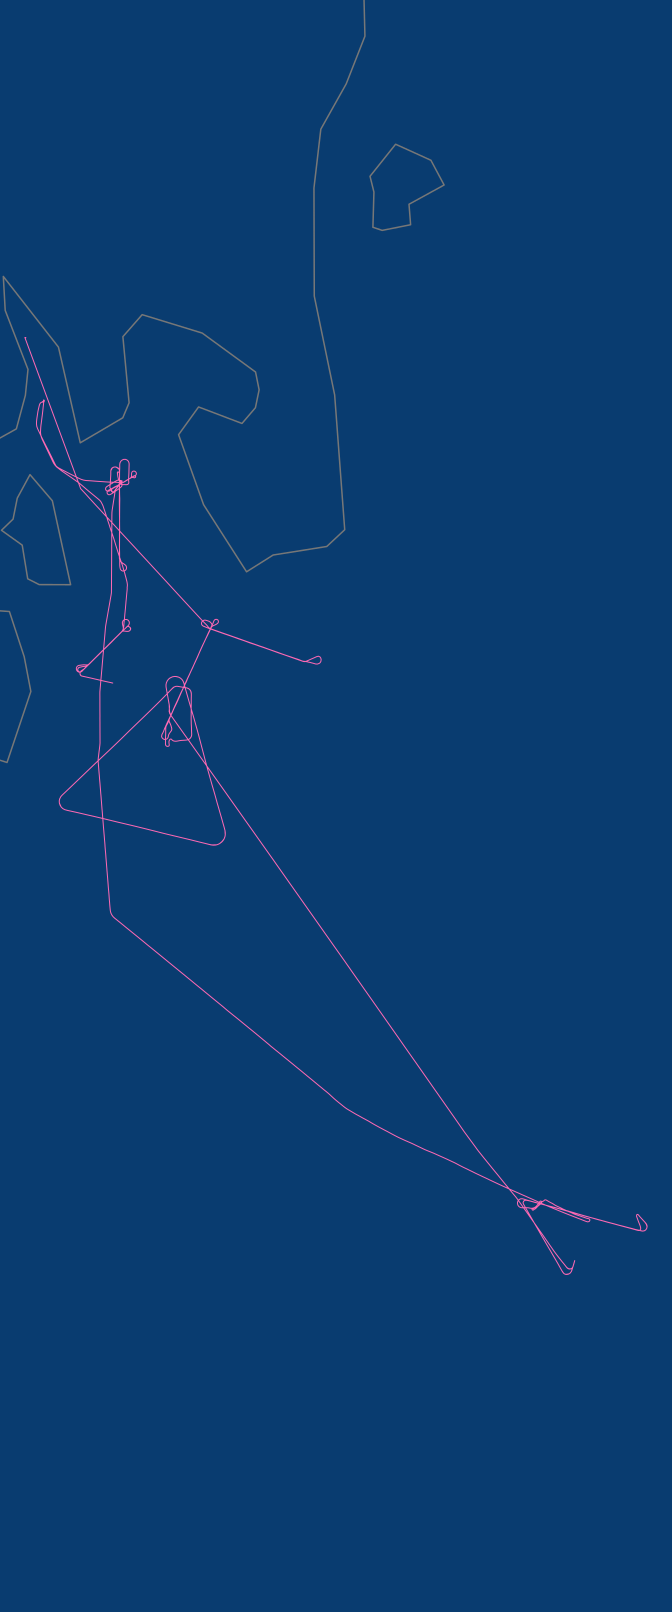
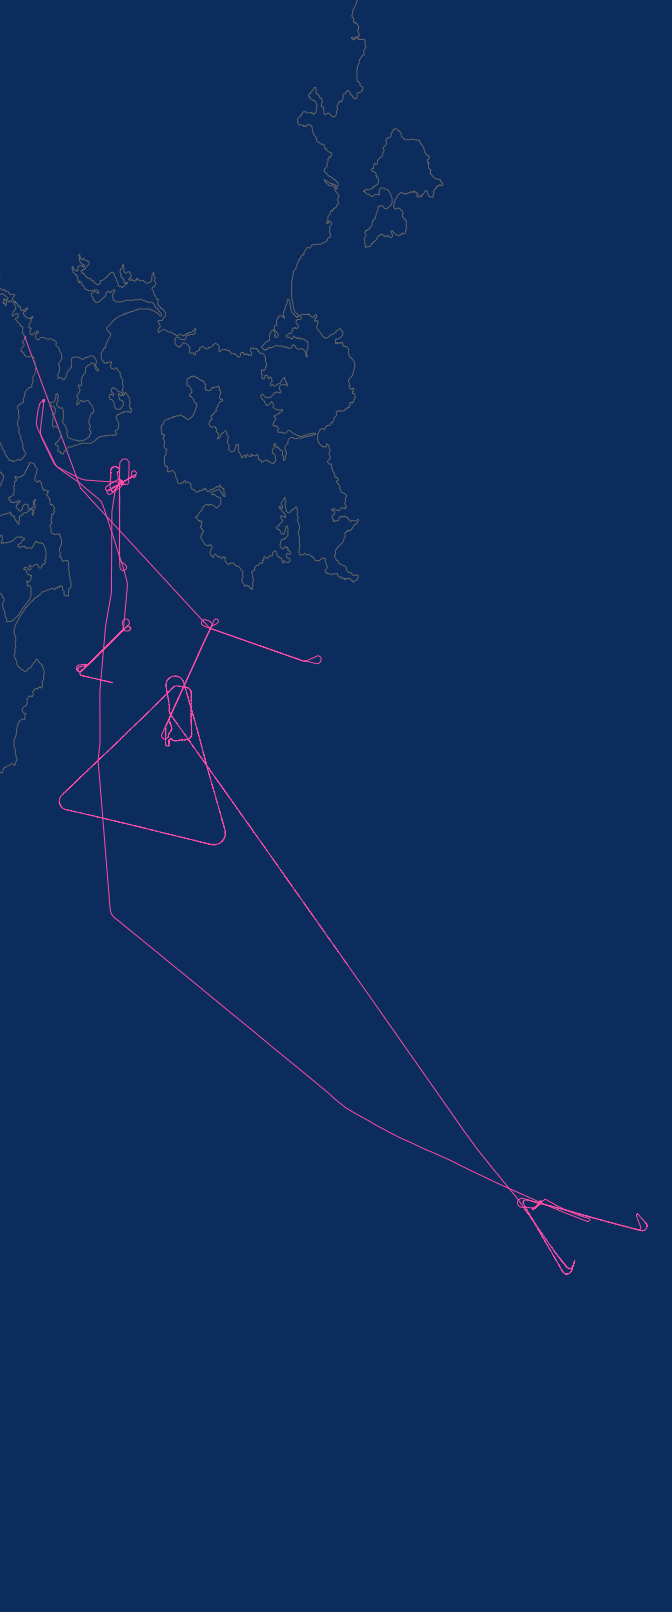
refreshing data

diff --git a/README.md b/README.md
@@ -18,7 +18,7 @@ The goal of seaice.map is to
 
 ``` r
 library(terra)
-#> terra 1.7.49
+#> terra 1.7.46
 r <- rast("data-raw/seaice.png")
 plotRGB(r, axes = F, maxcell = prod(dim(r)[2:1]))
 
@@ -34,11 +34,15 @@ title(readLines("data-raw/latestdate.txt"), line = -2, col.main = "white")
 #dat <- vapour::vapour_read_fields(aadcgeoserver, sql = sql)
 
 
-info <- vapour::vapour_layer_info("data-raw/nuyina_underway.parquet", "nuyina_underway")
+#info <- vapour::vapour_layer_info("data-raw/nuyina_underway.parquet")
 n <- 12 * 24 * 60
-sql <- sprintf("SELECT * FROM \"%s\" LIMIT %i OFFSET %i", "nuyina_underway", n, info$count - n)
+#sql <- sprintf("SELECT * FROM \"%s\" LIMIT %i OFFSET %i", info$layer_names[1], n, info$count - n)
 
-dat <- vapour::vapour_read_fields("data-raw/nuyina_underway.parquet", sql = sql)
+#dat <- vapour::vapour_read_fields("data-raw/nuyina_underway.parquet", sql = sql)
+
+dat <- arrow::read_parquet("data-raw/nuyina_underway.parquet")
+dat <- tibble::as_tibble(dat)
+dat <- tail(dat, n)
 dat$date_time_utc <- as.POSIXct(dat$date_time_utc, "%Y/%m/%d %H:%M:%S", tz = "UTC")
 
 track <- cbind(dat$longitude, dat$latitude)
@@ -55,11 +59,15 @@ rect(bx[1], bx[3], bx[2], bx[4])
 
 ``` r
 
+CGAZ <- "/vsizip//vsicurl/https://github.com/wmgeolab/geoBoundaries/raw/main/releaseData/CGAZ/geoBoundariesCGAZ_ADM0.zip"
+CGAZ_sql <- "SELECT shapeGroup FROM geoBoundariesCGAZ_ADM0 WHERE shapeGroup IN ('AUS','NZL','ATA')"
+map <- terra::vect(CGAZ, query = CGAZ_sql)
 plot(track, type = "n", asp = 1)
 title(paste0(as.Date(range(dat$date_time_utc)),collapse = ","), col.main = "white")
 plotRGB(r, add = TRUE)
 lines(track, col = "hotpink")
-lines(terra::project(do.call(cbind, maps::map(plot = F)[1:2]), to = terra::crs(r), from = "OGC:CRS84"), lwd = 1.5, col = "#777777")
+#lines(terra::project(do.call(cbind, maps::map(plot = F)[1:2]), to = terra::crs(r), from = "OGC:CRS84"), lwd = 1.5, col = "#777777")
+plot(terra::project(map, terra::crs(r)), add = TRUE, border = "#777777")
 ```
 
 <img src="man/figures/README-example-2.png" width="100%" />
